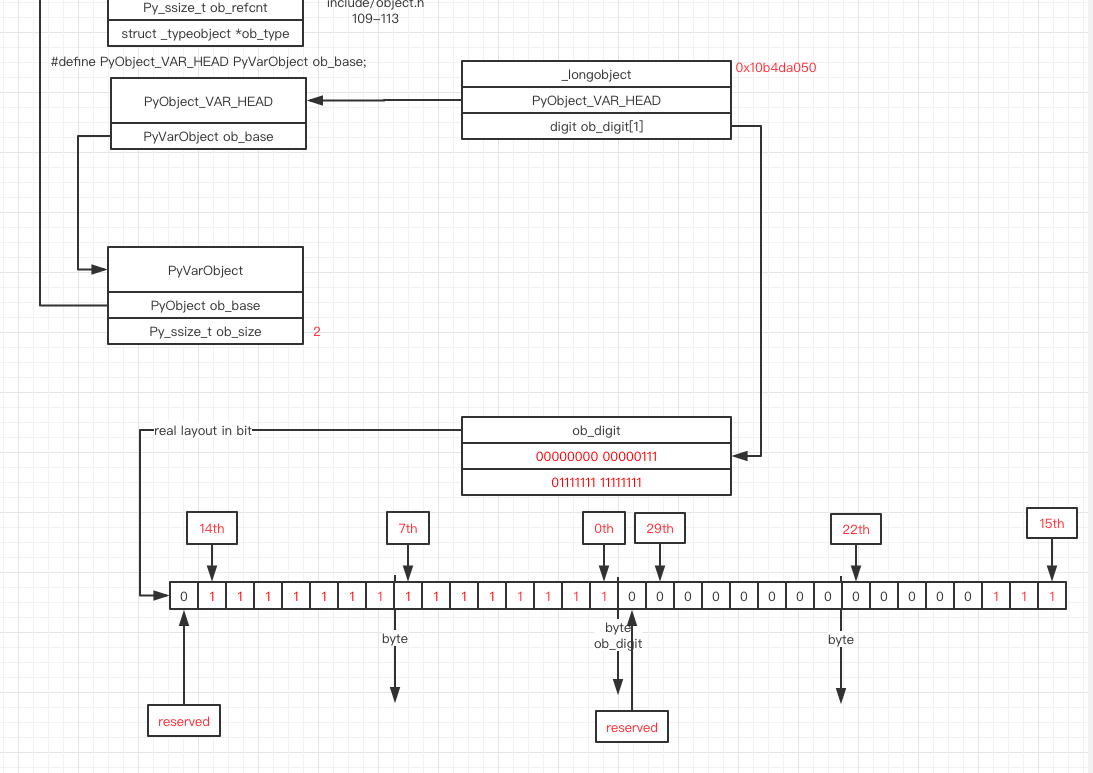
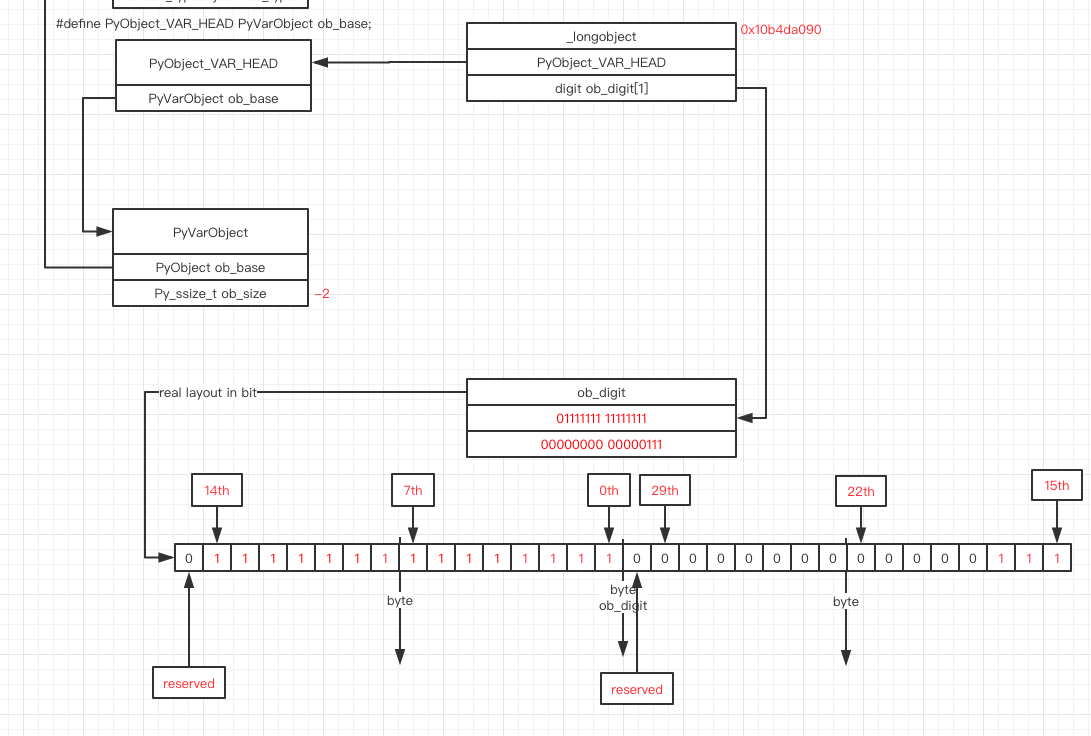
long done

Changed region(s): [[0.0312, 0.0, 0.9973, 0.9688]]

diff --git a/BasicObject/long/long_cn.md b/BasicObject/long/long_cn.md
@@ -1,44 +1,48 @@
-# tuple
+# int
 
-### category
+### 目录
 
-* [related file](#related-file)
-* [memory layout](#memory-layout)
-* [how element stored inside](#how-element-stored-inside)
-	* [ingeter 0](#ingeter-0)
-	* [ingeter 1](#ingeter-1)
-	* [ingeter -1](#ingeter--1)
-	* [ingeter -1](#ingeter--1)
-	* [ingeter 1023](#ingeter-1023)
-	* [ingeter 32767](#ingeter-32767)
-* [free list](#free-list)
+* [相关位置文件](#相关位置文件)
+* [内存构造](#内存构造)
+* [内部元素如何存储](#内部元素如何存储)
+	* [整数 0](#整数-0)
+	* [整数 1](#整数-1)
+	* [整数 -1](#整数-1)
+	* [整数 1023](#整数-1023)
+	* [整数 32767](#整数-32767)
+	* [整数 32768](#整数-32768)
+	* [小端大端](#小端大端)
+	* [第一个保留位](#第一个保留位)
+* [small ints(缓冲池)](#small ints)
 
-#### related file
+#### 相关位置文件
 * cpython/Objects/longobject.c
 * cpython/Include/longobject.h
 * cpython/Include/longintrepr.h
 
-#### memory layout
+#### 内存构造
 
 ![memory layout](https://img-blog.csdnimg.cn/20190314164305131.png?x-oss-process=image/watermark,type_ZmFuZ3poZW5naGVpdGk,shadow_10,text_aHR0cHM6Ly9ibG9nLmNzZG4ubmV0L3FxXzMxNzIwMzI5,size_16,color_FFFFFF,t_70)
 
-After python3, there's only type named **int**, the **long** type in python2.x is **int** type in python3.x
+在 python3 之后, 就只有一个叫做 **int** 的类型了, python2.x 的 **long** 类型在 python3.x 里面就叫做 **int** 类型
 
-The structure of **long object** looks like the structure of [tuple object](https://github.com/zpoint/Cpython-Internals/blob/master/BasicObject/tuple/tuple.md#memory-layout), Obviously there's only one field to store the real **int** value, that's **ob_digit**. But how cpython represent the variable size **int** in byte level?
+**int** 在内存空间上的构造和 [tuple 元素在内存空间的构造](https://github.com/zpoint/Cpython-Internals/blob/master/BasicObject/tuple/tuple_cn.md#%E5%86%85%E5%AD%98%E6%9E%84%E9%80%A0) 非常相似
 
-Let's see
+很明显, 只有**ob_digit**这一个位置可以用来存储真正的整数, 但是 cpython 如何按照字节来存储任意长度的整型的呢?
 
-#### how element stored inside
+我们来看看
 
-##### ingeter 0
+#### 内部元素如何存储
+
+##### 整数 0
 
 	i = 0
 
 ![0](https://github.com/zpoint/Cpython-Internals/blob/master/BasicObject/long/0.png)
 
-##### ingeter 1
+##### 整数 1
 
-There are two differenct type of **ob_digit** depends on your system.
+**ob_digit** 可以有两种不同的定义, 具体是 uint32_t 还是 unsigned short 取决于操作系统
 
     #if PYLONG_BITS_IN_DIGIT == 30
     typedef uint32_t digit;
@@ -57,55 +61,129 @@ There are two differenct type of **ob_digit** depends on your system.
     #define _PyLong_DECIMAL_SHIFT   4 /* max(e such that 10**e fits in a digit) */
     #define _PyLong_DECIMAL_BASE    ((digit)10000) /* 10 ** DECIMAL_SHIFT */
 
-I've modified the source code to change the value of **PYLONG_BITS_IN_DIGIT** to 15
+我把源代码里的 **PYLONG_BITS_IN_DIGIT** 的值写死成了 15, 这样我下面所有的示例都是以 **unsigned short** 定义的 **digit**
 
-Notice, when the value is 0, the **ob_digit** field doesn't store anything, the value 0 in **ob_size** indicate that **long object** represent integer 0
+注意, 当要表示的整数的值为 0 时, **ob_digit** 这个数组为空, 不存储任何东西, **ob_size** 中的 0 就直接表示这个整数的值为 0, 这是一种特殊情况
 
-But when it's going to represent integer 1, **ob_size** becomes 1 and field in **ob_digit** represent the value 1 with type **unsigned short**
+当我们需要表示整数 1 的时候, **ob_size** 的值变成了1, 这个时候 **ob_size** 表示 **ob_digit** 的长度, 并且 **ob_digit** 里以 **unsigned short** 的表示方式存储了整数1
 
 	i = 1
 
 ![1](https://github.com/zpoint/Cpython-Internals/blob/master/BasicObject/long/1.png)
 
-##### ingeter -1
+##### 整数 -1
 
-When i becomes -1, the only difference from the integer 1 is the value in **ob_size** field, cpython interpret **ob_size** as signed type to differ the positive and negitive sign
+当 i 变成 -1 时候, 唯一的和整数 1 的区别就是储存在 **ob_size** 里的值变成了 -1, 这里的负号表示这个整数的正负性, 不影响到 **ob_digit** 里面的值
 
 	i = -1
 
 ![-1](https://github.com/zpoint/Cpython-Internals/blob/master/BasicObject/long/-1.png)
 
-##### ingeter 1023
+##### 整数 1023
 
-The basic unit is type **digit**, which provide 2 bytes(18bits) for storage. And 1023 takes the right most 10 bits,
-so the value **ob_size** field is still 1.
+对于 PyLongObject 来说, 最基本的存储单位是 **digit**, 在我这里是 2个 byte 的大小(16个bit). 1023 只需要占用最右边的10个bit 就够了, 所以 **ob_size** 里的值仍然是 1
 
 
 ![1023](https://github.com/zpoint/Cpython-Internals/blob/master/BasicObject/long/1023.png)
 
-##### ingeter 32767
+##### 整数 32767
 
-The integer 32767 represent in the same way as usual
+整数 32767 的存储方式依旧和上面的存储无大致上的差别
 
 ![32767](https://github.com/zpoint/Cpython-Internals/blob/master/BasicObject/long/32767.png)
 
-##### ingeter 32768
+##### 整数 32768
 
-cpython don't use all the 16 bits in **digit** field, the first bit of every **digit** is reserved, we wiil see why later
+我们发现, cpython 并不会占用掉一个 **digit** 的所有的 bit 去存储一个数, 第一个 bit 会被保留下来, 我们后面会看到这个保留下来的 bit 有什么作用
 
 ![32768](https://github.com/zpoint/Cpython-Internals/blob/master/BasicObject/long/32768.png)
 
-##### little endian and big endian
+##### 小端大端
 
-Notice, because the **digit** is the smallest unit in the cpython abstract level, order between bytes inside a single ob_digit are represent in most-important-bit-in-the-left-most order(big endian order)
+注意, 因为 **digit** 作为 cpython 表示整型的最小存储单元, **digit** 里面的 byte 存储的顺序是按照 最重要的再最左边的 原则存储的(大端存储)
 
-order between **digit** in the **ob_digit** array are represent in most-important-digit-in-the-right-most order(little endian order)
+而 **digit** 和 **digit** 之间则是按照 最重要的再最右边的 原则存储的(小端存储
 
-we can have a better understanding with the integer value -262143
+我们来看一看整数值 -262143 的存储方式
 
-the minus sign is stored in the **ob_size** field
+负号依旧存储在 **ob_size** 里面
 
-The interger 262143(2^18 = 262144) in binary representation should be 00000011 11111111 11111111
+整数值 262143(2^18 = 262144) 的二进制表示应该是 00000011 11111111 11111111
 
 ![262143](https://github.com/zpoint/Cpython-Internals/blob/master/BasicObject/long/262143.png)
 
+##### 第一个保留位
+
+为什么 **digit** 的最左边一位需要保留下来呢? 为什么 **ob_digit** 里面的 **digit** 的顺序是按照小端的顺序存储的呢?
+
+我们尝试跑一个简单的加法来理解一下
+
+	i = 1073741824 - 1 # 1 << 30 == 1073741824
+    j = 1
+
+![before_add](https://github.com/zpoint/Cpython-Internals/blob/master/BasicObject/long/before_add.png)
+
+	k = i + j
+
+首先, 相加之前会初始化一个中间变量我这里叫做 temp, 他的类型也是 **PyLongObject**, 并且大小为 max(size(i), size(j)) + 1
+
+![temp_add](https://github.com/zpoint/Cpython-Internals/blob/master/BasicObject/long/temp_add.png)
+
+第一步, 把两个数 **ob_digit** 里的第一个坑位里的 **digit** 加起来, 并加到 **carray** 里
+
+![step_1](https://github.com/zpoint/Cpython-Internals/blob/master/BasicObject/long/step_1.png)
+
+第二步, 把 temp[0] 里的值设置为 (carry & PyLong_MASK)
+
+![step_2](https://github.com/zpoint/Cpython-Internals/blob/master/BasicObject/long/step_2.png)
+
+第三步, 右移 carray, 值保留下最左边的一位(这一位其实就是之前两个数相加的进位)
+
+![step_3_rshift](https://github.com/zpoint/Cpython-Internals/blob/master/BasicObject/long/step_3_rshift.png)
+
+第四步, 把两边下一个 **ob_digit** 的对应位置的值加起来, 并把结果与 **carray** 相加
+
+![step_4](https://github.com/zpoint/Cpython-Internals/blob/master/BasicObject/long/step_4.png)
+
+第五步, 把 temp[1] 里的值设置为 (carry & PyLong_MASK)
+
+![step_4](https://github.com/zpoint/Cpython-Internals/blob/master/BasicObject/long/step_5.png)
+
+第六步, 再次右移
+
+![step_3_rshift](https://github.com/zpoint/Cpython-Internals/blob/master/BasicObject/long/step_3_rshift.png)
+
+回到步骤四, 知道两边都没有剩余的 **digit** 可以相加为止, 把最后的 carray 存储到 temp 最后一格
+
+![step_final](https://github.com/zpoint/Cpython-Internals/blob/master/BasicObject/long/step_final.png)
+
+temp 这个变量此时按照 **PyLongObject** 的方式存储了前面两个数的和, 现在细心地你应该发现了, 第一个保留位是为了用来相加或者相减的时候作进位/退位 用的, 并且当 **digit** 和 **digit** 之间按照小端的方式存储的时候, 你做加减法的时候只需要从左到右处理即可
+
+减法的操作和加法类似, 有兴趣的同学可以自己参考源代码
+
+![k](https://github.com/zpoint/Cpython-Internals/blob/master/BasicObject/long/k.png)
+
+
+##### small ints
+
+cpython 同时也使用了一个全局变量叫做 small_ints 来单例化一部分常见范围的整数, 这么做可以减少频繁的向操作系统申请和释放的次数, 并且节约空间
+
+
+	#define NSMALLPOSINTS           257
+	#define NSMALLNEGINTS           5
+    static PyLongObject small_ints[NSMALLNEGINTS + NSMALLPOSINTS];
+
+我们来看看
+
+	c = 0
+    d = 0
+    e = 0
+    print(id(c), id(d), id(e)) # 4480940400 4480940400 4480940400
+    a = -5
+    b = -5
+    print(id(a), id(b)) # 4480940240 4480940240
+    f = 1313131313131313
+    g = 1313131313131313
+    print(id(f), id(g)) # 4484604176 4484604016
+
+![small_ints](https://github.com/zpoint/Cpython-Internals/blob/master/BasicObject/long/small_ints.png)

diff --git a/BasicObject/long/long.md b/BasicObject/long/long.md
@@ -1,4 +1,4 @@
-# tuple
+# int
 
 ### category
 
@@ -8,10 +8,12 @@
 	* [ingeter 0](#ingeter-0)
 	* [ingeter 1](#ingeter-1)
 	* [ingeter -1](#ingeter--1)
-	* [ingeter -1](#ingeter--1)
 	* [ingeter 1023](#ingeter-1023)
 	* [ingeter 32767](#ingeter-32767)
-* [free list](#free-list)
+	* [ingeter 32768](#ingeter-32768)
+	* [little endian and big endian](#little-endian-and-big-endian)
+	* [reserved bit](#reserved-bit)
+* [small ints](#small ints)
 
 #### related file
 * cpython/Objects/longobject.c
@@ -77,7 +79,7 @@ When i becomes -1, the only difference from the integer 1 is the value in **ob_s
 
 ##### ingeter 1023
 
-The basic unit is type **digit**, which provide 2 bytes(18bits) for storage. And 1023 takes the right most 10 bits,
+The basic unit is type **digit**, which provide 2 bytes(16bits) for storage. And 1023 takes the right most 10 bits,
 so the value **ob_size** field is still 1.
 
 
@@ -105,7 +107,82 @@ we can have a better understanding with the integer value -262143
 
 the minus sign is stored in the **ob_size** field
 
-The interger 262143(2^18 = 262144) in binary representation should be 00000011 11111111 11111111
+The interger 262143(2^18 = 262144) in binary representation is 00000011 11111111 11111111
 
 ![262143](https://github.com/zpoint/Cpython-Internals/blob/master/BasicObject/long/262143.png)
 
+##### reserved bit
+
+Why the left-most bit in **digit** is reserved? Why order between **digit** in the **ob_digit** array are represent as little-endian?
+
+Let's try to add two integer value
+
+	i = 1073741824 - 1 # 1 << 30 == 1073741824
+    j = 1
+
+![before_add](https://github.com/zpoint/Cpython-Internals/blob/master/BasicObject/long/before_add.png)
+
+	k = i + j
+
+first, initialize a temporary **PyLongObject** with size = max(size(i), size(j)) + 1
+
+![temp_add](https://github.com/zpoint/Cpython-Internals/blob/master/BasicObject/long/temp_add.png)
+
+step1, sum the firt **digit** in each **ob_digit** array to a variable named **carray**
+
+![step_1](https://github.com/zpoint/Cpython-Internals/blob/master/BasicObject/long/step_1.png)
+
+step2, set the value in temp[0] to (carry & PyLong_MASK)
+
+![step_2](https://github.com/zpoint/Cpython-Internals/blob/master/BasicObject/long/step_2.png)
+
+step3, right shift the carray up to the left most bit
+
+![step_3_rshift](https://github.com/zpoint/Cpython-Internals/blob/master/BasicObject/long/step_3_rshift.png)
+
+step4, add the second **digit** in each **ob_digit** array to the result of **carray**
+
+![step_4](https://github.com/zpoint/Cpython-Internals/blob/master/BasicObject/long/step_4.png)
+
+step5, set the value in temp[1] to (carry & PyLong_MASK)
+
+![step_4](https://github.com/zpoint/Cpython-Internals/blob/master/BasicObject/long/step_5.png)
+
+step6, right shift the carray again
+
+![step_3_rshift](https://github.com/zpoint/Cpython-Internals/blob/master/BasicObject/long/step_3_rshift.png)
+
+go to step4 and repeat until no more **digit** left, set the final carray to the last index of temp
+
+![step_final](https://github.com/zpoint/Cpython-Internals/blob/master/BasicObject/long/step_final.png)
+
+the variable temp contains the sum, now, you see the reserved bit is used for the **carry** or **borrow** when you add/sub an integer, the **digit** in **ob_digit** array are stored in little-endian order so that the add/sub operation can process each **digit** from left to right
+
+the sub operation is similar to the add operation, so you can read the source code directly
+
+![k](https://github.com/zpoint/Cpython-Internals/blob/master/BasicObject/long/k.png)
+
+
+##### small ints
+
+cpython alse use a buffer pool to stored the frequently used integer
+
+
+	#define NSMALLPOSINTS           257
+	#define NSMALLNEGINTS           5
+    static PyLongObject small_ints[NSMALLNEGINTS + NSMALLPOSINTS];
+
+let's see
+
+	c = 0
+    d = 0
+    e = 0
+    print(id(c), id(d), id(e)) # 4480940400 4480940400 4480940400
+    a = -5
+    b = -5
+    print(id(a), id(b)) # 4480940240 4480940240
+    f = 1313131313131313
+    g = 1313131313131313
+    print(id(f), id(g)) # 4484604176 4484604016
+
+![small_ints](https://github.com/zpoint/Cpython-Internals/blob/master/BasicObject/long/small_ints.png)
